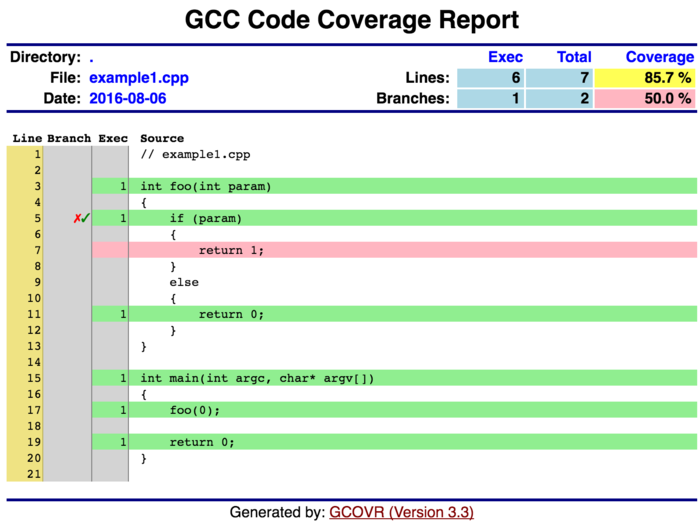
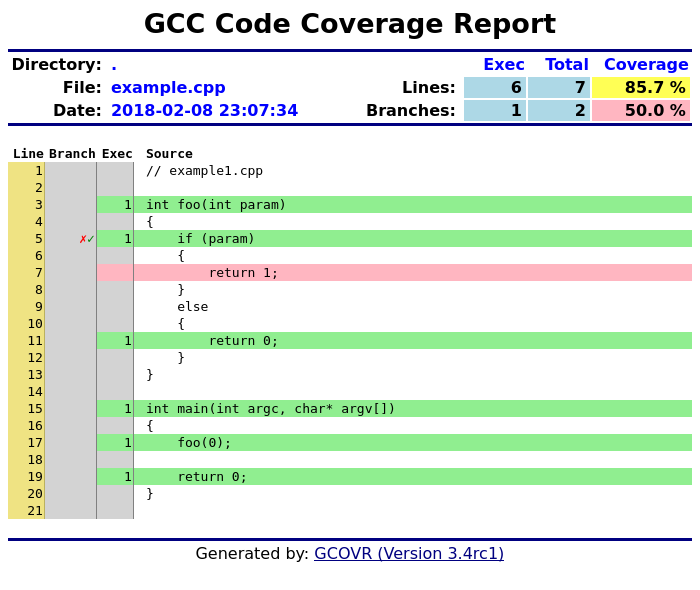
bump version to 3.4rc1 (release candidate)

diff --git a/setup.py b/setup.py
@@ -25,7 +25,7 @@ def read(*rnames):
 scripts = glob.glob("scripts/*")
 
 setup(name='gcovr',
-      version='3.3',
+      version='3.4rc1',
       maintainer='William Hart',
       maintainer_email='wehart@sandia.gov',
       url='http://gcovr.com',

diff --git a/doc/guide.rst b/doc/guide.rst
@@ -13,7 +13,7 @@ Gcovr User Guide
         :start-after: .. begin abstract
         :end-before: .. end abstract
 
-    This documentation describes Gcovr 3.3.
+    This documentation describes Gcovr 3.4.
 
 .. section-numbering::
 
